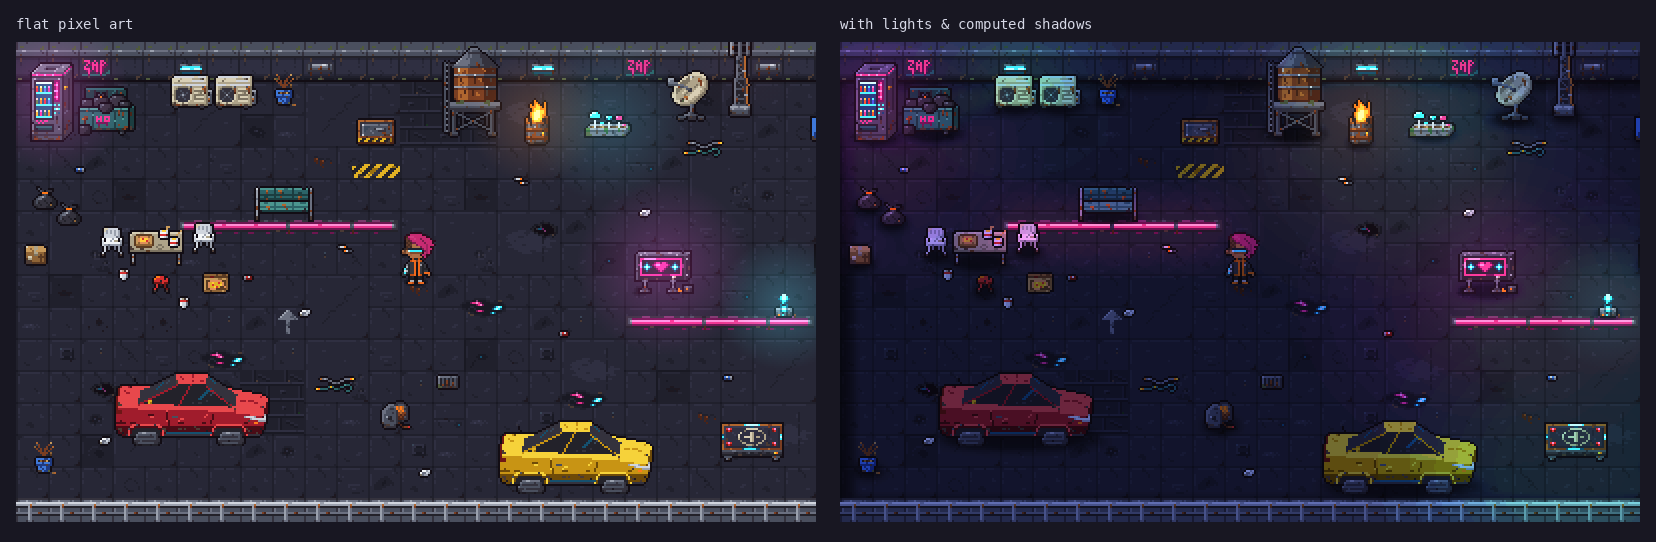
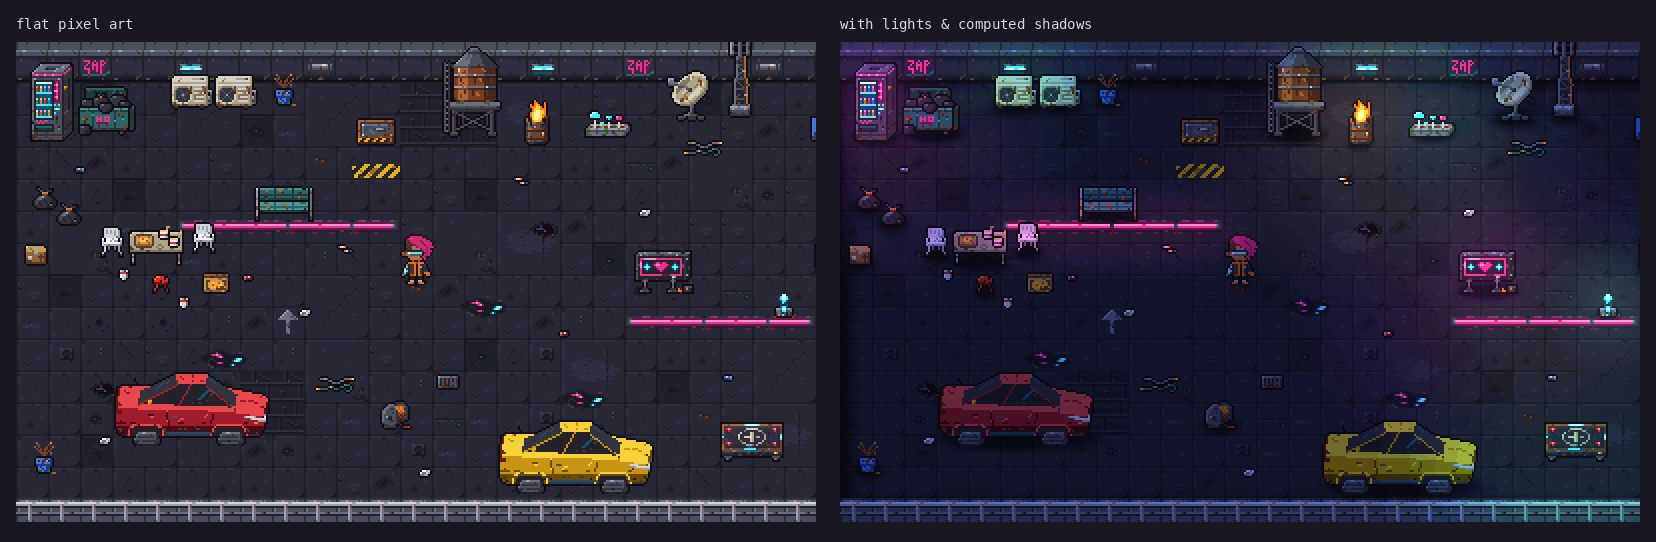
fix(demo): lighting off shows plain pixel art, no colored glow halos
With lighting toggled off (L) the glowing props still drew their
colored bloom halos on top. They are now part of the lighting, so the
off view is the raw pixel art; the README lighting comparison is
regenerated.

Claude-Session: https://claude.ai/code/session_01Fv8yoVpx8AM9QtDidGMBtM

diff --git a/web/engine.js b/web/engine.js
@@ -483,7 +483,7 @@ function draw(fixedT) {
   } else {
     ctx.drawImage(objC, 0, 0);
   }
-  drawGlows(camX, camY, now);
+  if (lit) drawGlows(camX, camY, now);  // lighting off: plain pixel art, no colored halos
   for (const fl of flyers.slice().sort((a, b) => a.y - b.y)) drawFlyer(fl, camX, camY, now, lit);
   if (hud) {
     ctx.fillStyle = "#cfd3e6"; ctx.font = "8px monospace";
